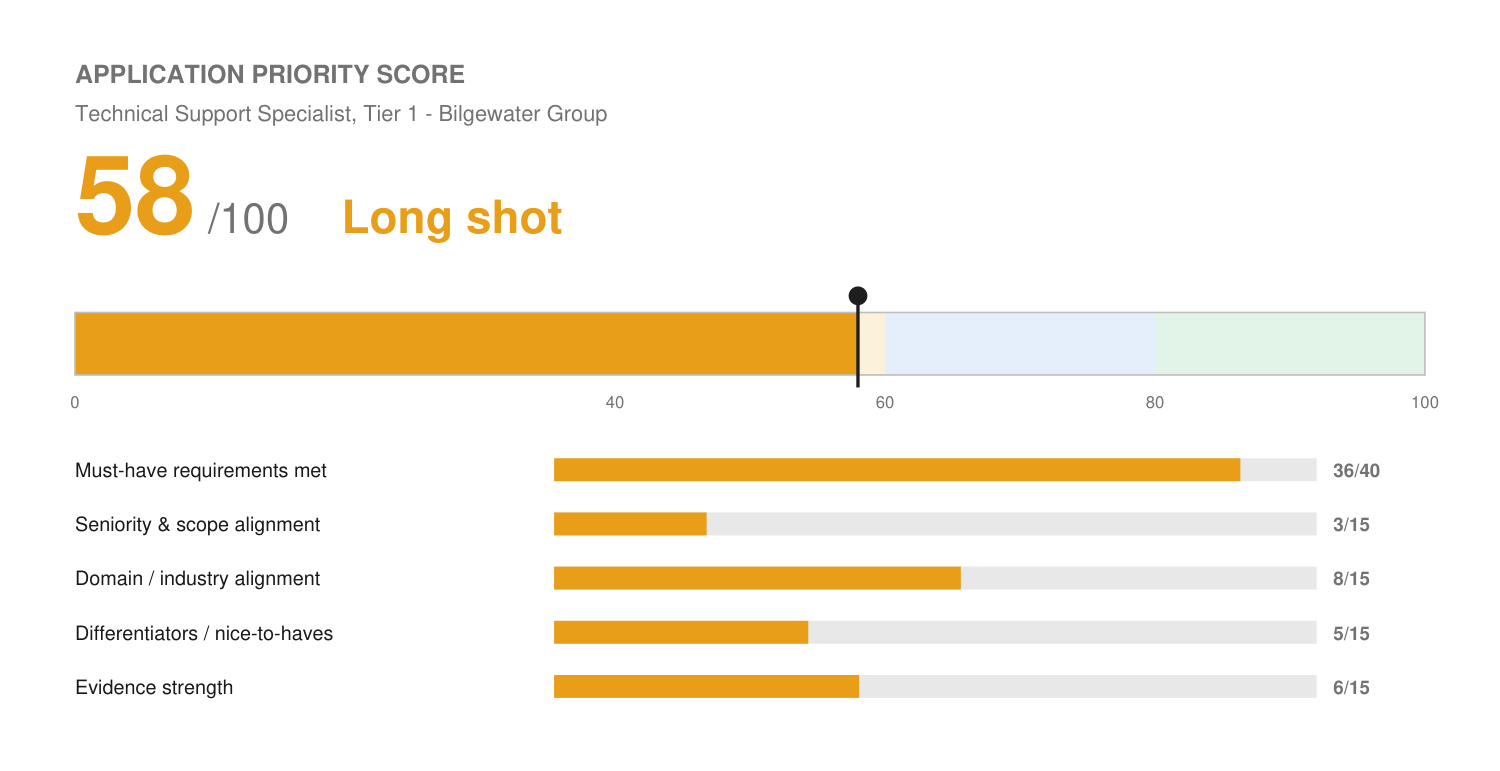
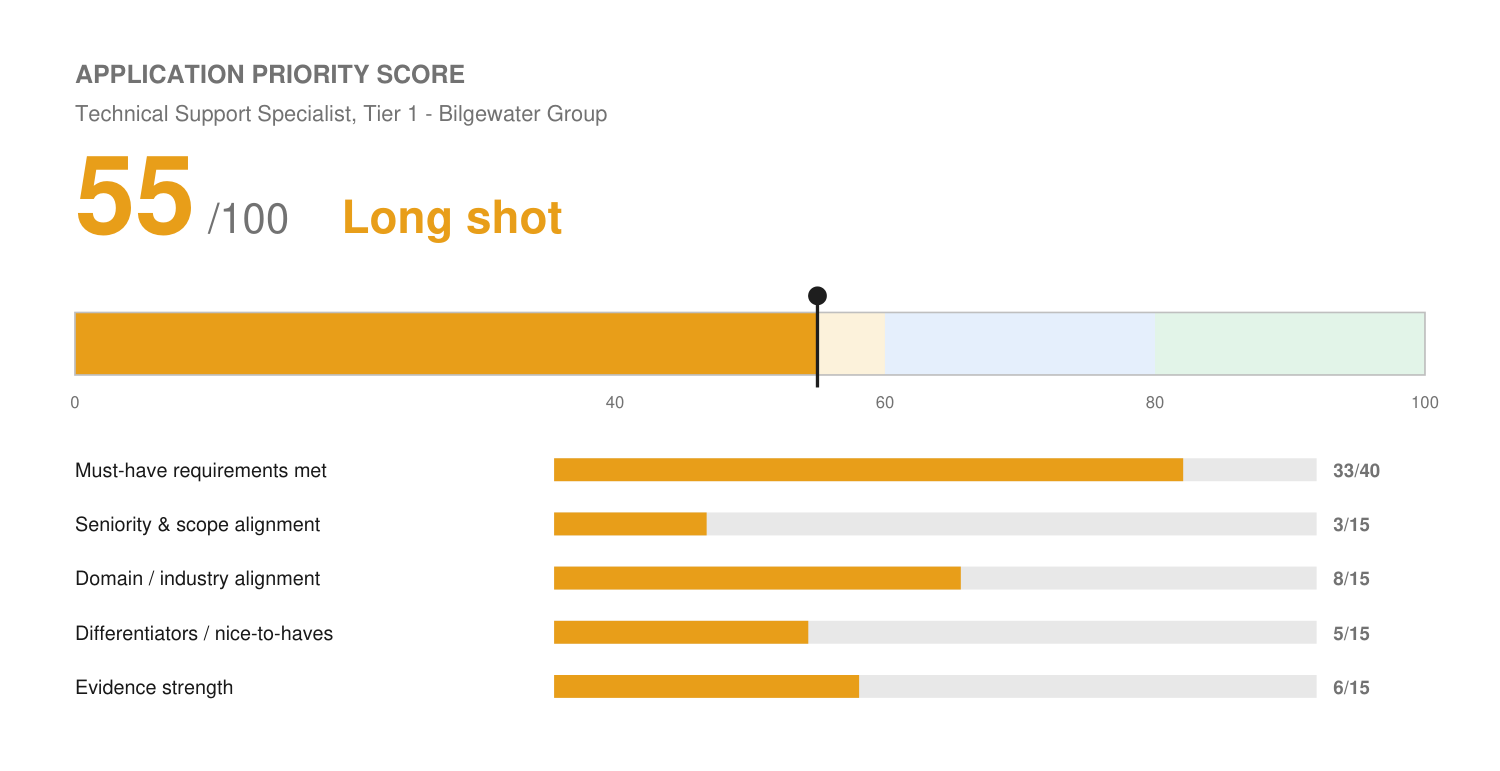
Correct overstated Zendesk claim (Josh flagged it) - score 58 -> 55
Josh's actual Zendesk experience is comparative/sales-side demo work
(showing what a workflow would look like in Zendesk vs. another
system), not hands-on day-to-day ticket-queue/support-agent use. The
Bilgewater Group resume claimed the latter. Corrected in
master-profile.md with a scoped note (role attribution still not
captured), removed Zendesk from that resume's summary and
competencies, and now lean on Josh's genuinely operational
case-tracking experience in HubSpot, Salesforce, GoHighLevel, and
Jira instead. Rescored must-haves 36->33, total 58->55, same Long
shot band.

Claude-Session: https://claude.ai/code/session_01NbVZsCcsxhZmD6mekvh8hj

Changed region(s): [[0.5213, 0.3735, 0.5827, 0.4981], [0.092, 0.1868, 0.1227, 0.2802], [0.7667, 0.5914, 0.828, 0.6226]]

diff --git a/applications/bilgewater-group-technical-support-tier1/match-report.md b/applications/bilgewater-group-technical-support-tier1/match-report.md
@@ -13,6 +13,7 @@
 | Work authorization | Application-form requirement | Josh is a U.S. citizen — no issue. |
 | Compensation | **Flagging directly, not a checkbox item** | Posting states $20–$27/hour, roughly **$41,600–$56,160/year at full-time hours** — well below the master-profile's own associate/coordinator baseline ($72K–$78K) and far below what 15+ years of SaaS AE/account-management experience typically commands. This isn't an eligibility question, it's a straightforward pay cut relative to everything else in this search. Worth confirming this is intentional before applying. |
 | Certification (CompTIA A+) | Not applicable | Listed as "nice to have," not required. Genuine gap, low stakes. |
+| Ticketing/support system experience | Resume-evidenced (corrected) | Josh's Zendesk experience is comparative/sales-side demonstration work, not hands-on day-to-day ticket-queue use, corrected in this profile after Josh flagged an overstatement. The resume now leans on his genuinely operational case-tracking experience in HubSpot, Salesforce, GoHighLevel, and Jira instead. |
 
 **No eligibility failure — the cap was not applied.** The reason this needs a direct conversation isn't eligibility, it's fit-for-purpose: Josh clears every literal requirement easily, and that itself is the flag.
 
@@ -21,19 +22,21 @@
 ## Application Priority Score
 
 ```
-🟡 Application Priority Score: 58 / 100 — Long shot
-[████████████░░░░░░░░]  58%
+🟡 Application Priority Score: 55 / 100 — Long shot
+[███████████░░░░░░░░░]  55%
 ```
 
 Internal decision aid only — not a prediction of Bilgewater Group's own screening outcome. See `fit.png` for the visual breakdown.
 
 | Dimension | Score | Max |
 | :--- | :--- | :--- |
-| Must-have requirements met | 36 | 40 |
+| Must-have requirements met | 33 | 40 |
 | Seniority & scope alignment | 3 | 15 |
 | Domain / industry alignment | 8 | 15 |
 | Differentiators / nice-to-haves | 5 | 15 |
 | Evidence strength | 6 | 15 |
+
+*(Revised from an initial 58 after Josh corrected the Zendesk claim — see the ticketing/support-system row above. Must-haves dropped 36→33 to reflect that the named "ticketing or support system" requirement is now backed by HubSpot/Salesforce/GoHighLevel/Jira case-tracking instead of overstated Zendesk experience.)*
 
 **Why 58, and why that number needs context to be useful:** this is an unusual long shot, the opposite kind from most of what's shown up in this search. Josh doesn't fall short on the literal checklist, he clears it easily (Zendesk experience, technical troubleshooting, remote-work discipline, escalation practice). What drags the score down is **Seniority & Scope Alignment**, scored a 3 out of 15 on purpose: a Tier 1 first-line support queue, at $20–$27/hour, is a significant step down in scope and compensation from 15 years of AE, account-management, team-lead, and founder-level work. A hiring manager reviewing this resume against a Tier 1 req is more likely to wonder about flight risk and salary expectations than about whether Josh can do the job. That's worth knowing before applying, not something a sharper resume fixes.
 
@@ -51,15 +54,17 @@ Internal decision aid only — not a prediction of Bilgewater Group's own screen
 | Clear communication, customer-focused | Strong | Career-long |
 | Comfortable working independently, remote | Strong | Remote since 2020; solo-founder operator |
 | Legally authorized to work in the US | Covered | U.S. citizen |
+| Ticketing/support system experience | Adjacent | Case and client-record tracking in HubSpot, Salesforce, GoHighLevel, and Jira; Zendesk exposure is comparative/sales-side only, not hands-on ticket-queue use |
 
 ## Top Strengths for This Role
 
-- **Zendesk experience is a direct, confirmed match** to the named ticketing-system requirement.
+- **Genuine, operational case-tracking experience** in HubSpot, Salesforce, GoHighLevel, and Jira, a real answer to the "ticketing or support system" ask even without Zendesk specifically.
 - **Genuine technical troubleshooting evidence** across GTM setup, API integrations, and workflow configuration.
 - **Strong escalation discipline** ("escalate complex issues with clear documentation" is close to verbatim what Josh already does).
 
 ## Gaps
 
+- No hands-on day-to-day ticketing-tool experience in the specific style this role likely uses (Zendesk or similar); his ticketing-adjacent experience is CRM/PM-tool case tracking plus comparative Zendesk exposure from the sales side.
 - No CompTIA A+ or similar certification (nice-to-have only).
 - No formal "technical support" job title, though the functional experience is well beyond the 1-year bar asked for.
 

diff --git a/profile/master-profile.md b/profile/master-profile.md
@@ -575,7 +575,20 @@ operator talking, not like a candidate performing.
 | Sales & Account Management | Full-cycle Sales, Pipeline Management, Pipeline Stage Tracking & Forecast Hygiene, C-Suite Relationship Building, Strategic Advisory, Account Expansion |
 | Operations & Systems | Process Mapping, SOP Development, Workflow Decomposition, Project Management, Cross-functional Coordination |
 | Content & Writing | Thought Leadership, Direct Response Copy, Technical Translation, Brand Voice, Editorial Management |
-| Tools & Platforms | GoHighLevel, HubSpot, Salesforce, Notion, Slack, Asana, Monday.com, Jira, Zendesk, ClickUp, Screaming Frog, Google Apps, Procore |
+| Tools & Platforms | GoHighLevel, HubSpot, Salesforce, Notion, Slack, Asana, Monday.com, Jira, ClickUp, Screaming Frog, Google Apps, Procore |
+
+> **Zendesk — comparative/sales-side exposure only (confirmed by Josh, Sep 2026,
+> correcting an earlier overstatement):** Josh's Zendesk experience is comparative
+> demonstration work from the sales side, building side-by-side comparisons of what a
+> workflow would look like in Zendesk versus another system for a prospect or internal
+> evaluation. This is **not** hands-on day-to-day ticket-queue/support-agent usage, and
+> should never be represented as such. Exact employer/role attribution not yet captured —
+> ask Josh before using it in any role-specific bullet. It does not clear the
+> two-minute-defensibility bar for a JD asking specifically for hands-on Zendesk
+> ticketing/agent experience; it is fair to mention only as light platform familiarity
+> from a sales-comparison context, and weaker ticketing-system evidence than Josh's
+> genuinely operational use of HubSpot, Salesforce, GoHighLevel, and Jira for tracking
+> client issues and records.
 
 > **Excel, Power BI, SQL, Python/JS (confirmed by Josh, Sep 2026, updated Sep 2026):**
 > Excel is a genuine, experienced-level skill, not just baseline literacy. Power BI is
